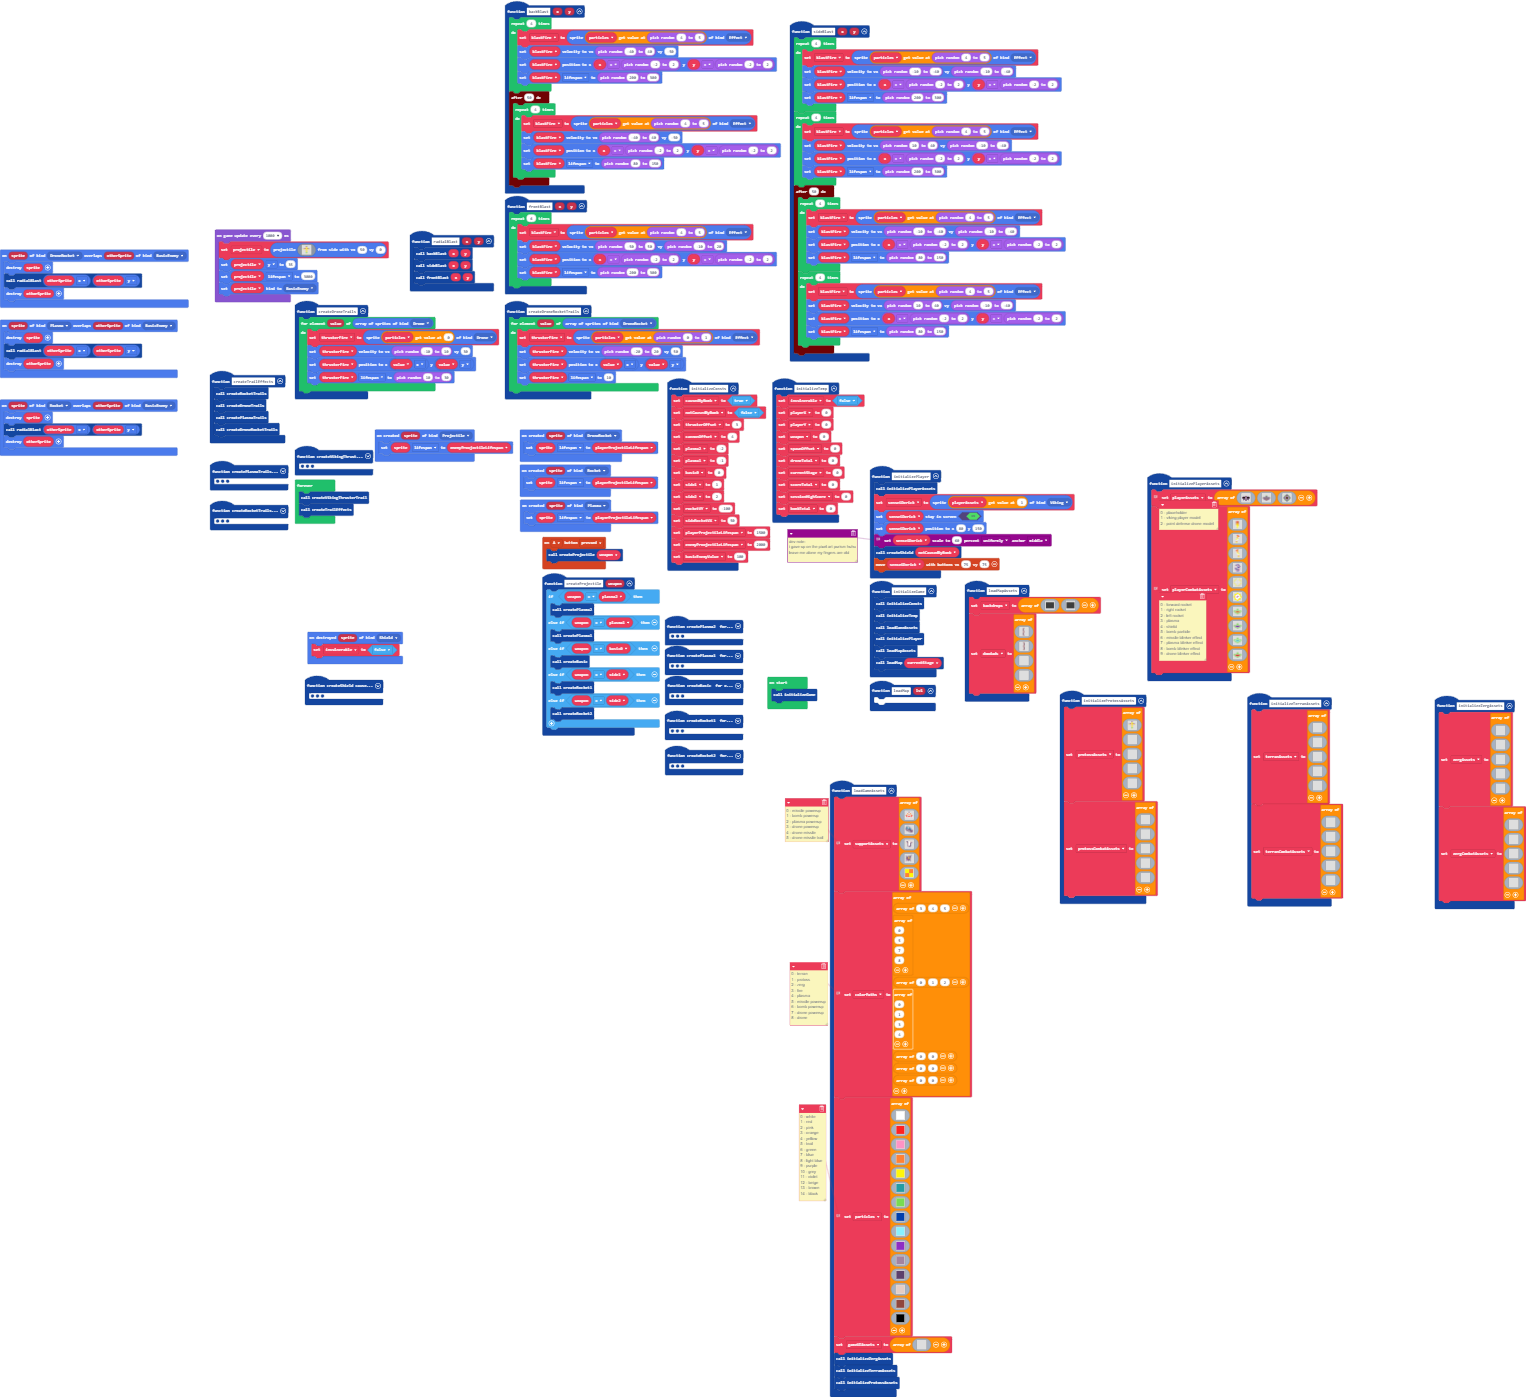
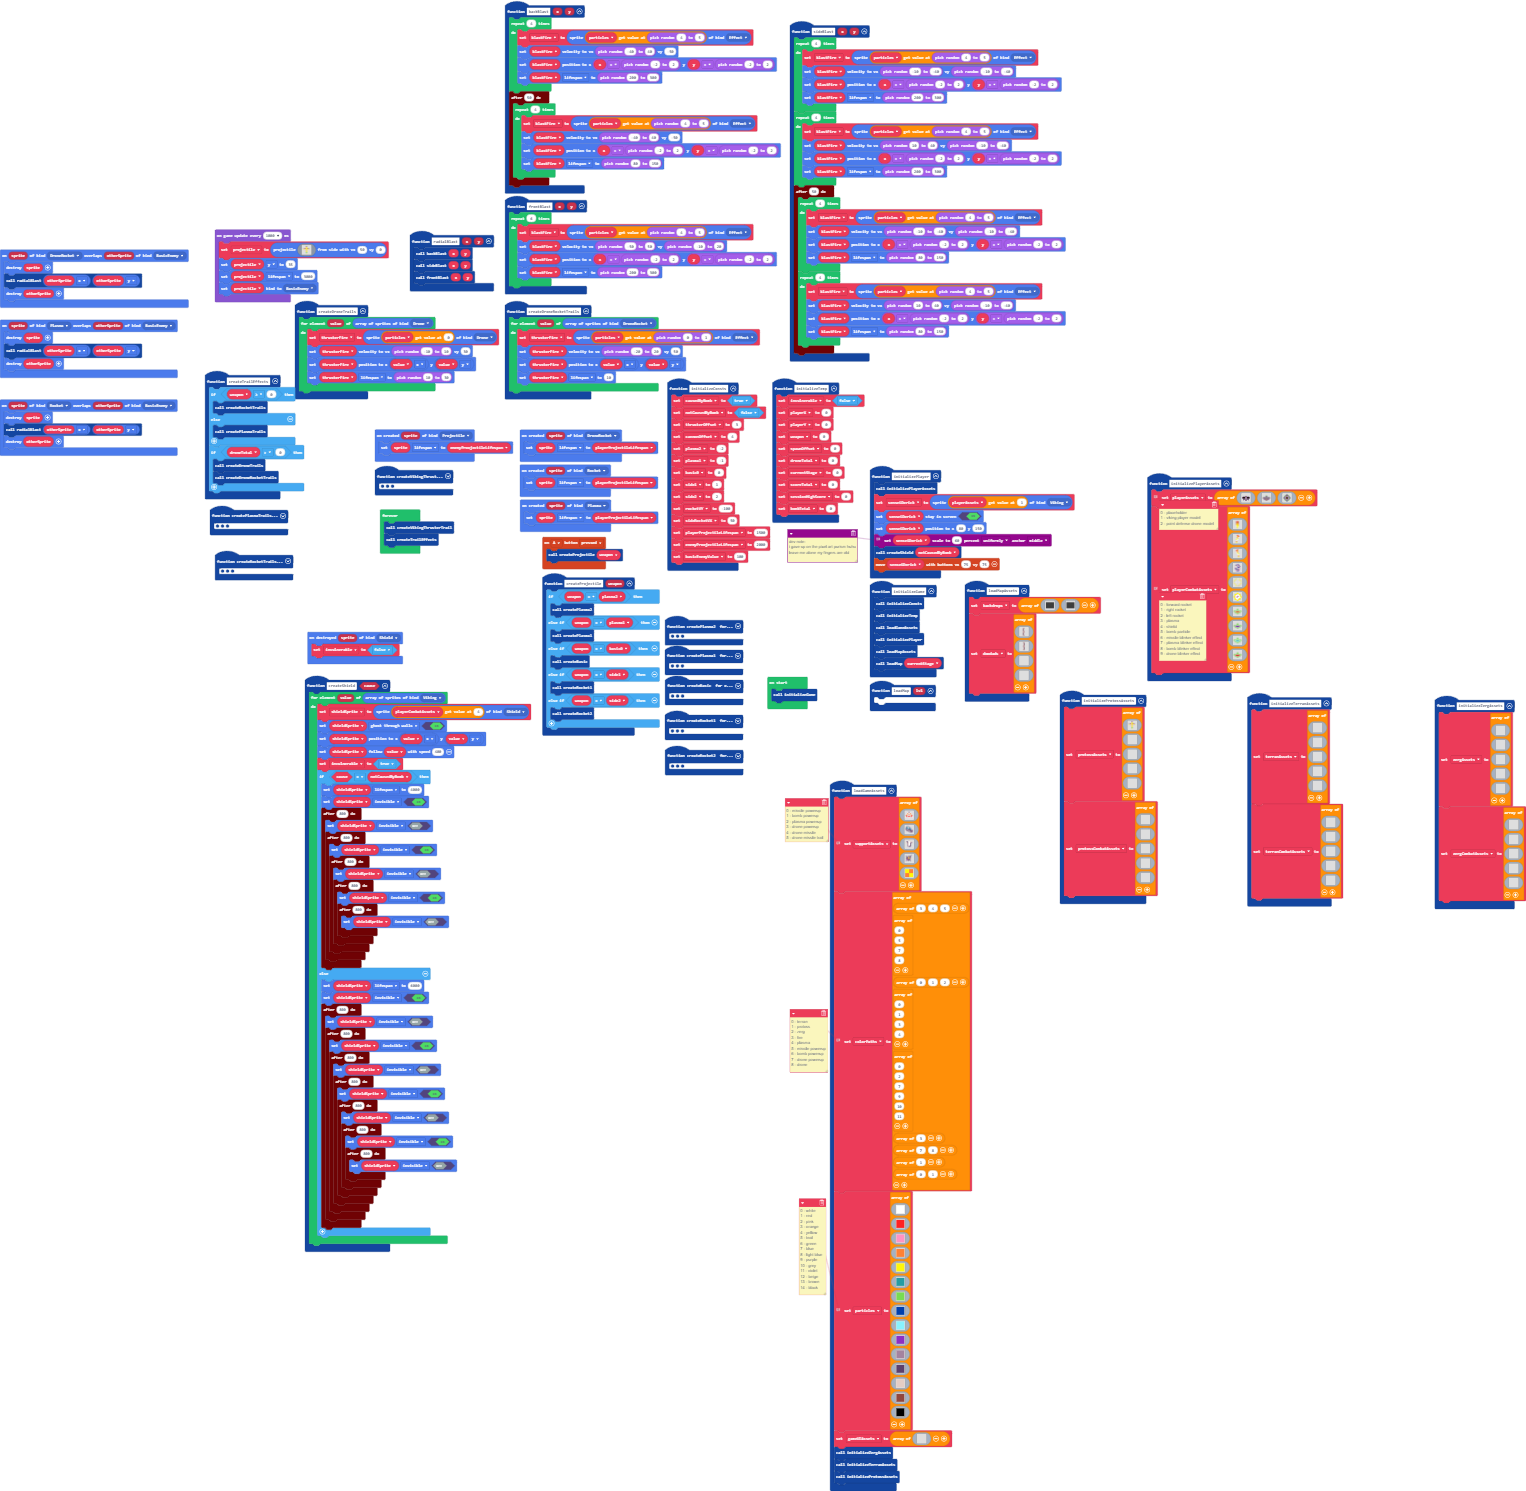
complete color path arrays

Changed region(s): [[0.0, 0.0, 0.8932, 1.0], [0.924, 0.4617, 1.0, 0.6772], [0.4928, 0.6772, 0.5544, 0.7387]]

diff --git a/main.ts b/main.ts
@@ -808,6 +808,7 @@ function createShield (cause: boolean) {
     for (let value of sprites.allOfKind(SpriteKind.Viking)) {
         shieldSprite = sprites.create(playerCombatAssets[4], SpriteKind.Shield)
         shieldSprite.setFlag(SpriteFlag.GhostThroughWalls, true)
+        shieldSprite.setPosition(value.x, value.y)
         shieldSprite.follow(value, 400)
         invulnerable = true
         if (cause == notCausedByBomb) {
@@ -1721,9 +1722,18 @@ function loadGameAssets () {
     3,
     4
     ],
-    [0, 0],
-    [0, 0],
-    [0, 0]
+    [
+    0,
+    2,
+    7,
+    9,
+    10,
+    11
+    ],
+    [3],
+    [7, 8],
+    [1],
+    [0, 1]
     ]
     // 0 - white
     // 1 - red
@@ -1828,10 +1838,15 @@ function createBasic () {
     }
 }
 function createTrailEffects () {
-    createRocketTrails()
-    createDroneTrails()
-    createPlasmaTrails()
-    createDroneRocketTrails()
+    if (weapon >= 0) {
+        createRocketTrails()
+    } else {
+        createPlasmaTrails()
+    }
+    if (droneTotal > 0) {
+        createDroneTrails()
+        createDroneRocketTrails()
+    }
 }
 sprites.onCreated(SpriteKind.DroneRocket, function (sprite) {
     sprite.lifespan = playerProjectileLifespan
